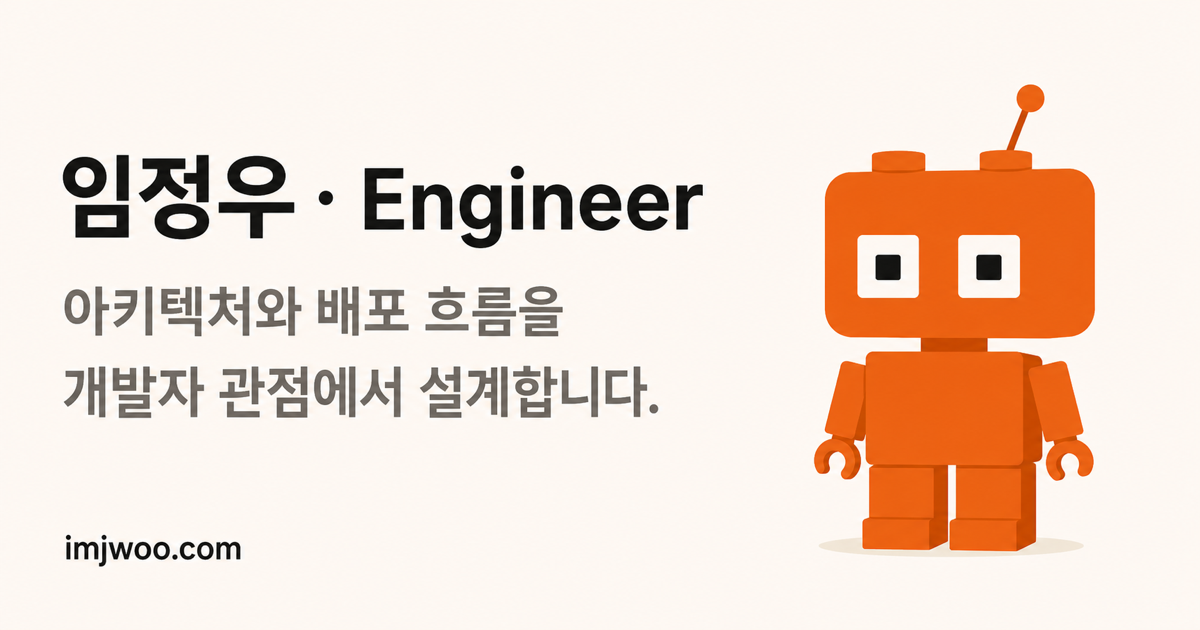
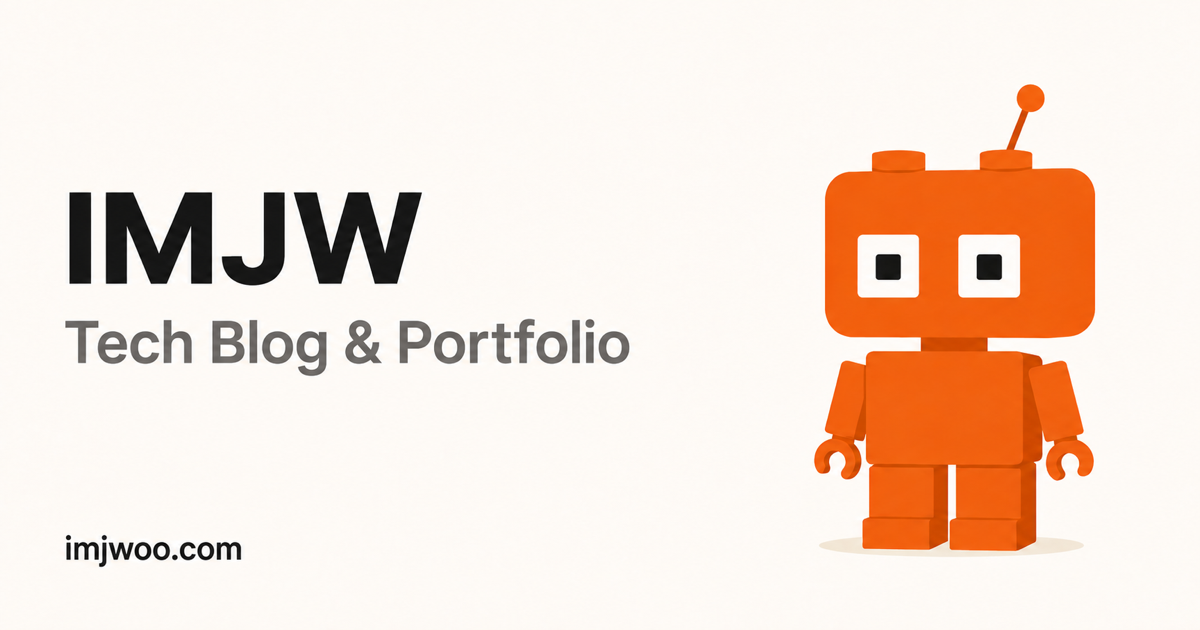
feat: refresh homepage identity and tech stack

Changed region(s): [[0.0308, 0.2413, 0.5858, 0.6635], [0.0617, 0.8444, 0.185, 0.9048], [0.8325, 0.5127, 0.8633, 0.5429]]

diff --git a/app/page.tsx b/app/page.tsx
@@ -13,14 +13,29 @@ type TechItem = {
 
 const techGroups: Array<{ title: string; items: TechItem[] }> = [
   {
-    title: "Cloud & DevOps",
+    title: "Infrastructure",
     items: [
       { name: "AWS", image: publicPath("/images/tech/aws.svg"), iconClassName: "h-12 w-12" },
-      { name: "Azure", image: publicPath("/images/tech/azure.svg") },
       { name: "NCP", image: publicPath("/images/tech/ncp.svg"), iconClassName: "h-[58px] w-[58px]" },
+      { name: "Terraform", image: publicPath("/images/tech/terraform.svg") },
+      { name: "Ansible", image: publicPath("/images/tech/ansible.svg") },
+    ],
+  },
+  {
+    title: "Container & Operations",
+    items: [
+      { name: "Kubernetes", image: publicPath("/images/tech/kubernetes.svg") },
       { name: "Docker", image: publicPath("/images/tech/docker.svg") },
-      { name: "GitHub Actions", image: publicPath("/images/tech/github-actions.svg") },
       { name: "Jenkins", image: publicPath("/images/tech/jenkins.svg") },
+      { name: "GitHub Actions", image: publicPath("/images/tech/github-actions.svg") },
+    ],
+  },
+  {
+    title: "Monitoring & Security",
+    items: [
+      { name: "Prometheus", image: publicPath("/images/tech/prometheus.svg") },
+      { name: "Grafana", image: publicPath("/images/tech/grafana.svg") },
+      { name: "CloudWatch", image: publicPath("/images/tech/cloudwatch.svg"), iconClassName: "h-16 w-16" },
     ],
   },
   {
@@ -29,15 +44,7 @@ const techGroups: Array<{ title: string; items: TechItem[] }> = [
       { name: "Java", image: publicPath("/images/tech/java.svg"), iconClassName: "h-[46px] w-[46px]" },
       { name: "Python", image: publicPath("/images/tech/python.svg") },
       { name: "Spring Boot", image: publicPath("/images/tech/spring-boot.svg") },
-      { name: "Shell Script", image: publicPath("/images/tech/shell.svg"), iconClassName: "h-16 w-16" },
-    ],
-  },
-  {
-    title: "Monitoring",
-    items: [
-      { name: "Prometheus", image: publicPath("/images/tech/prometheus.svg") },
-      { name: "Grafana", image: publicPath("/images/tech/grafana.svg") },
-      { name: "CloudWatch", image: publicPath("/images/tech/cloudwatch.svg"), iconClassName: "h-16 w-16" },
+      { name: "Shell", image: publicPath("/images/tech/shell.svg"), iconClassName: "h-16 w-16" },
     ],
   },
 ];
@@ -58,7 +65,7 @@ function TechIcon({ item }: { item: TechItem }) {
           className={`${item.iconClassName ?? "h-12 w-12"} object-contain`}
         />
       </div>
-      <span className="pointer-events-none absolute top-full mt-2 whitespace-nowrap text-center text-[11px] leading-4 text-muted-foreground opacity-0 transition-opacity group-hover:opacity-100">
+      <span className="mt-2 whitespace-nowrap text-center text-[11px] leading-4 text-muted-foreground">
         {item.name}
       </span>
     </div>
@@ -72,28 +79,17 @@ export default function HomePage() {
 
       <section>
         <h2 className="text-xl font-semibold">Tech Stack.</h2>
-        <div className="mt-2 space-y-10">
-          <div>
-            <h3 className="text-sm font-medium text-muted-foreground">Cloud & DevOps</h3>
-            <div className="mt-5 flex flex-wrap gap-6">
-              {techGroups[0].items.map((item) => (
-                <TechIcon key={item.name} item={item} />
-              ))}
-            </div>
-          </div>
-
-          <div className="grid gap-x-16 gap-y-10 sm:grid-cols-2">
-            {techGroups.slice(1).map((group) => (
-              <div key={group.title}>
-                <h3 className="text-sm font-medium text-muted-foreground">{group.title}</h3>
-                <div className="mt-5 flex flex-wrap gap-6">
-                  {group.items.map((item) => (
-                    <TechIcon key={item.name} item={item} />
-                  ))}
-                </div>
+        <div className="mt-2 grid gap-x-16 gap-y-10 lg:grid-cols-2">
+          {techGroups.map((group) => (
+            <div key={group.title}>
+              <h3 className="text-sm font-medium text-muted-foreground">{group.title}</h3>
+              <div className="mt-5 flex flex-wrap gap-x-6 gap-y-5">
+                {group.items.map((item) => (
+                  <TechIcon key={item.name} item={item} />
+                ))}
               </div>
-            ))}
-          </div>
+            </div>
+          ))}
         </div>
       </section>
 
@@ -124,13 +120,13 @@ export default function HomePage() {
             <ExternalLink className="h-4 w-4 shrink-0 text-muted-foreground" />
           </Link>
           <Link
-            href="mailto:dlawjddn15@gmail.com"
+            href="mailto:imjwoo15@gmail.com"
             className="flex items-center gap-3 rounded-lg border border-border bg-card p-4 transition-colors hover:bg-accent/10"
           >
             <Mail className="h-7 w-7 shrink-0 text-foreground" />
             <span className="min-w-0 flex-1">
               <span className="block text-sm font-medium">Email</span>
-              <span className="mt-1 block truncate text-sm text-muted-foreground">dlawjddn15@gmail.com</span>
+              <span className="mt-1 block truncate text-sm text-muted-foreground">imjwoo15@gmail.com</span>
             </span>
             <ExternalLink className="h-4 w-4 shrink-0 text-muted-foreground" />
           </Link>

diff --git a/components/sections/whoami-terminal.tsx b/components/sections/whoami-terminal.tsx
@@ -7,15 +7,11 @@ type SessionBlock =
   | { type: "projects" };
 
 const session: SessionBlock[] = [
-  { type: "command", text: "whoami" },
-  { type: "output", lines: ["임정우 · Cloud Engineer"] },
-  { type: "command", text: "cat profile.txt" },
+  { type: "command", text: "cat learning.txt" },
   {
     type: "output",
     lines: [
-      "아키텍처와 배포 파이프라인을 개발자 관점에서 설계합니다.",
-      "반복되는 운영 작업은 자동화하고, 사람이 개입하는 지점을 줄입니다.",
-      "인프라는 코드로 관리해 재현 가능한 환경을 만듭니다.",
+      "AWS와 Terraform으로 인프라를 설계하고, Kubernetes와 Ansible로 운영을 자동화하며, 안정성과 보안을 함께 공부하고 기록합니다.",
     ],
   },
   { type: "command", text: "ls ./projects" },
@@ -50,7 +46,7 @@ export function WhoamiTerminal() {
                   <Link
                     key={project.slug}
                     href={`/projects/${project.slug}`}
-                    className="text-[13px] text-muted-foreground underline-offset-4 transition-colors hover:text-primary hover:underline sm:text-sm"
+                    className="text-[13px] text-muted-foreground transition-colors hover:text-primary sm:text-sm"
                   >
                     {project.slug}/
                   </Link>
@@ -62,7 +58,7 @@ export function WhoamiTerminal() {
           return (
             <div key={block.lines[0]} className="space-y-1">
               {block.lines.map((line) => (
-                <p key={line} className="text-[13px] leading-7 text-muted-foreground sm:text-sm">
+                <p key={line} className="text-xs leading-6 text-muted-foreground sm:text-[13px]">
                   {line}
                 </p>
               ))}

diff --git a/components/layout/sidebar.tsx b/components/layout/sidebar.tsx
@@ -13,7 +13,7 @@ export function Sidebar() {
         </div>
         <div className="mt-5">
           <p className="text-xl font-semibold">임정우</p>
-          <p className="mt-1 text-sm text-muted-foreground">Cloud Engineer Portfolio</p>
+          <p className="mt-1 text-sm text-muted-foreground">Tech Blog & Portfolio</p>
         </div>
       </Link>
 
@@ -40,10 +40,10 @@ export function Sidebar() {
             <span className="h-2.5 w-2.5 rounded-full bg-green-500" />
           </div>
           <div className="space-y-2 p-4 text-xs">
-            <p><span className="text-primary">$</span> whoami</p>
-            <p className="text-muted-foreground">개발을 이해하는 클라우드 엔지니어</p>
-            <p><span className="text-primary">$</span> focus</p>
-            <p className="text-muted-foreground">AWS · Terraform · CI/CD · Docker</p>
+            <p><span className="text-primary">$</span> cat learning.txt</p>
+            <p className="leading-5 text-muted-foreground">
+              인프라를 설계하고 운영하며 배운 내용을 기록합니다.
+            </p>
           </div>
         </div>
 
@@ -52,7 +52,7 @@ export function Sidebar() {
             <Link className="rounded-md p-2 text-muted-foreground hover:bg-accent hover:text-foreground" href="https://github.com/imjwoo" target="_blank">
               <Github className="h-4 w-4" />
             </Link>
-            <Link className="rounded-md p-2 text-muted-foreground hover:bg-accent hover:text-foreground" href="mailto:hello@example.com">
+            <Link className="rounded-md p-2 text-muted-foreground hover:bg-accent hover:text-foreground" href="mailto:imjwoo15@gmail.com">
               <Mail className="h-4 w-4" />
             </Link>
           </div>

diff --git a/app/layout.tsx b/app/layout.tsx
@@ -7,19 +7,19 @@ export const metadata: Metadata = {
   // og:image 를 절대 URL 로 내보내기 위해 필요합니다. 없으면 상대 경로로 나가서
   // 카카오톡·슬랙 같은 미리보기 크롤러가 이미지를 읽지 못합니다.
   metadataBase: new URL("https://imjwoo.com"),
-  title: "임정우 · Cloud Engineer",
-  description: "아키텍처와 배포 파이프라인을 개발자 관점에서 설계합니다.",
+  title: "IMJW | Tech Blog & Portfolio",
+  description: "인프라를 설계하고 운영하며 배운 내용을 기록합니다.",
   openGraph: {
     type: "website",
     url: "https://imjwoo.com",
-    siteName: "임정우 · Cloud Engineer",
-    title: "임정우 · Cloud Engineer",
-    description: "아키텍처와 배포 파이프라인을 개발자 관점에서 설계합니다.",
+    siteName: "IMJW",
+    title: "IMJW",
+    description: "인프라를 설계하고 운영하며 배운 내용을 기록합니다.",
   },
   twitter: {
     card: "summary_large_image",
-    title: "임정우 · Cloud Engineer",
-    description: "아키텍처와 배포 파이프라인을 개발자 관점에서 설계합니다.",
+    title: "IMJW",
+    description: "인프라를 설계하고 운영하며 배운 내용을 기록합니다.",
   },
 };
 
